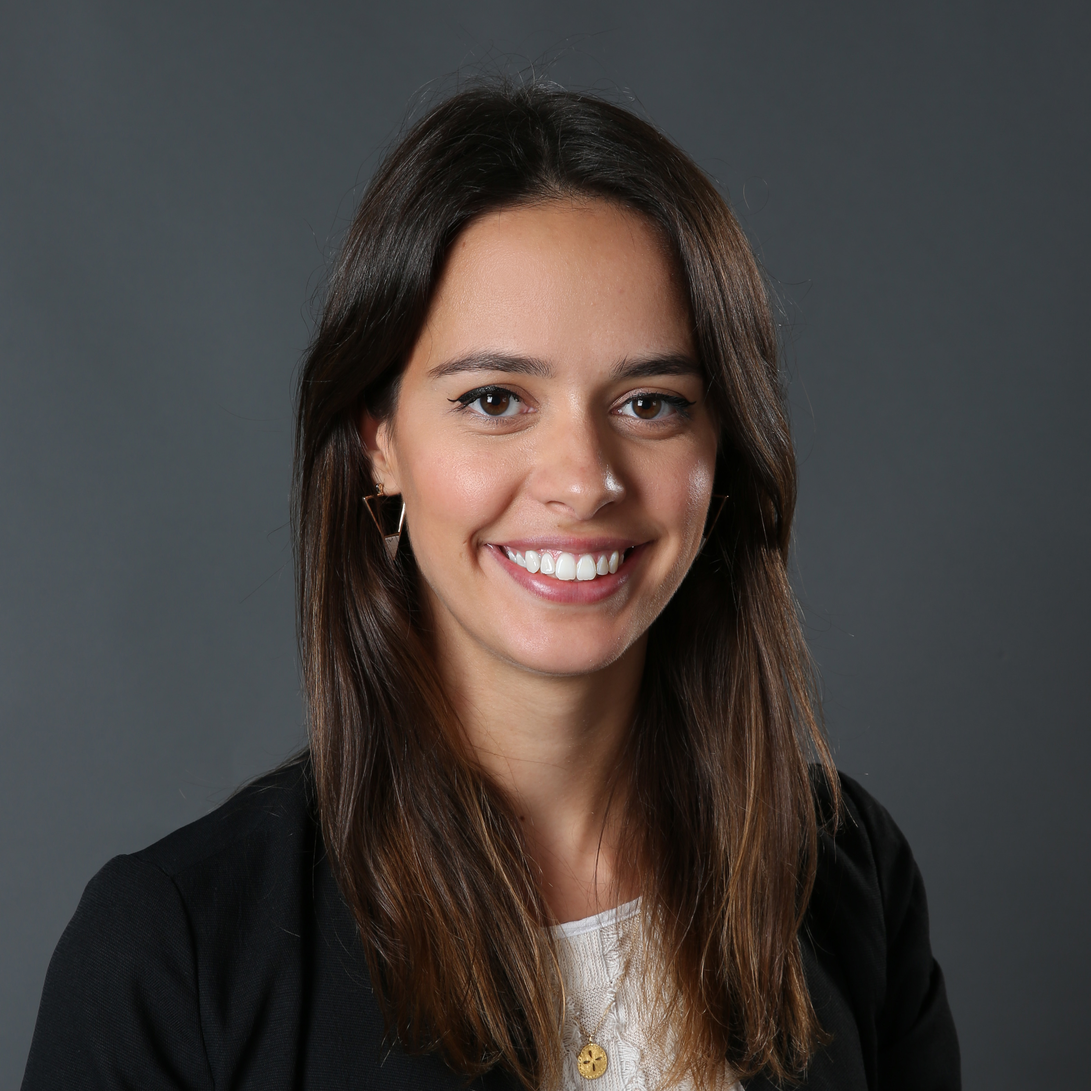
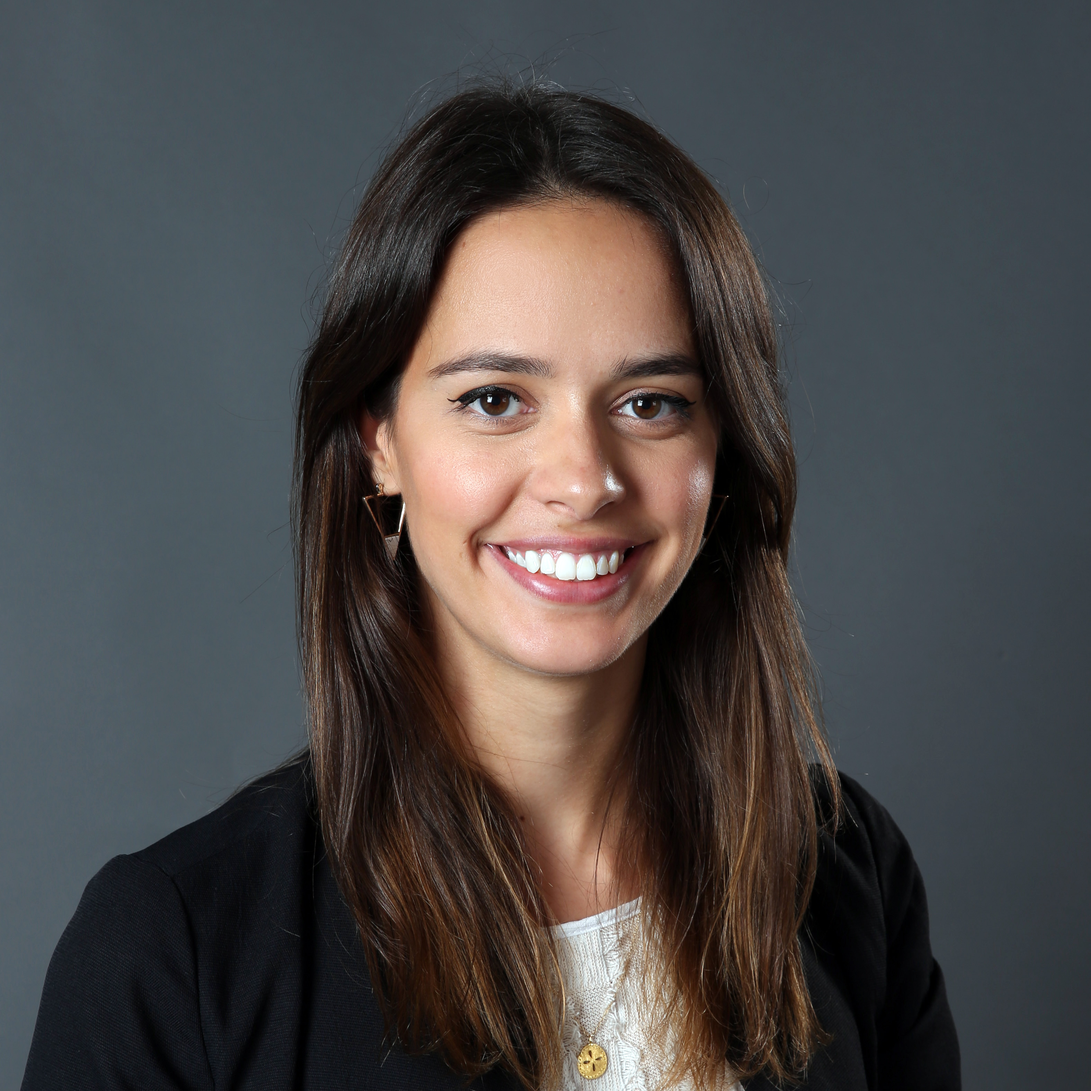
Updated Cover photo and other changes

Changed region(s): [[0.3732, 0.2177, 0.5598, 0.622], [0.4976, 0.8397, 0.6531, 1.0]]

diff --git a/index.html b/index.html
@@ -66,7 +66,7 @@
 		<div class="wrapper">
 
 			<!-- Page Header-->
-			<section class="module-header full-height parallax bg-dark bg-dark-30 text-left" id="home" data-background="assets/images/HR-CreativeCatalyst-01copy.jpg">
+			<section class="module-header full-height parallax bg-dark bg-dark-30 text-left" id="home" data-background="assets/images/HR-CreativeCatalyst-dark.jpg">
 				<div class="container">
 					<div class="row">
 						<div class="col-md-12">
@@ -92,7 +92,7 @@
 					</div>
 					<div class="row">
 						<div class="col-md-4">
-							<p><img src="assets/images/headshot.jpg" alt=""></p>
+							<p><img src="assets/images/headshot2.jpg" alt=""></p>
 						</div>
 						<div class="col-md-8">
 							<h5>Profile</h5>
